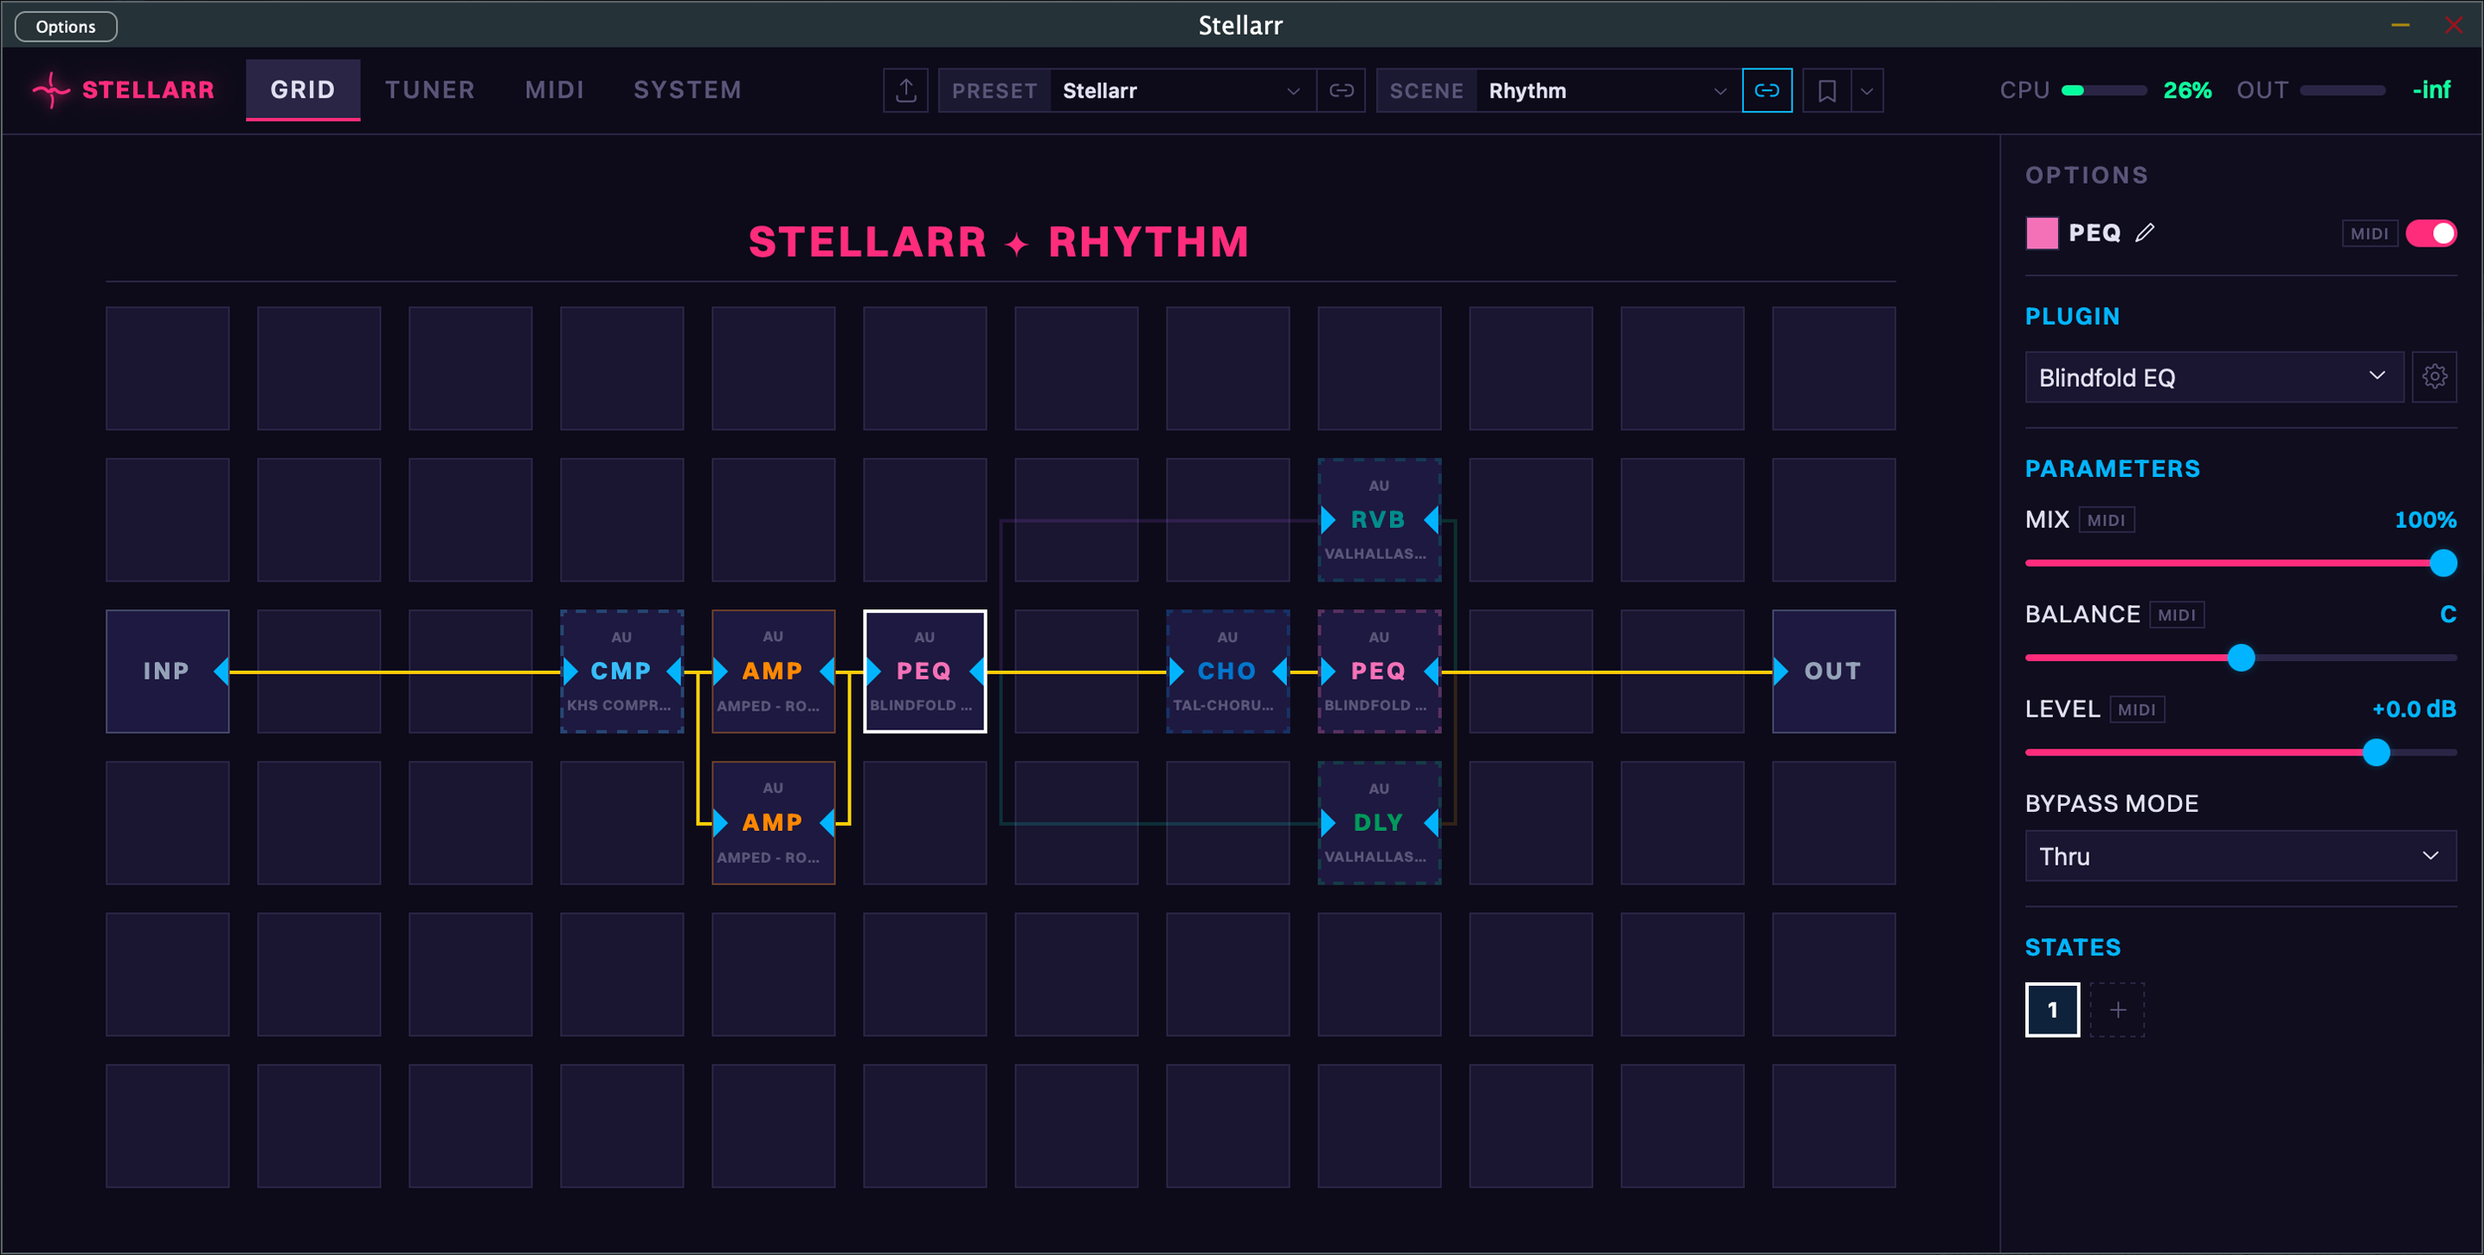
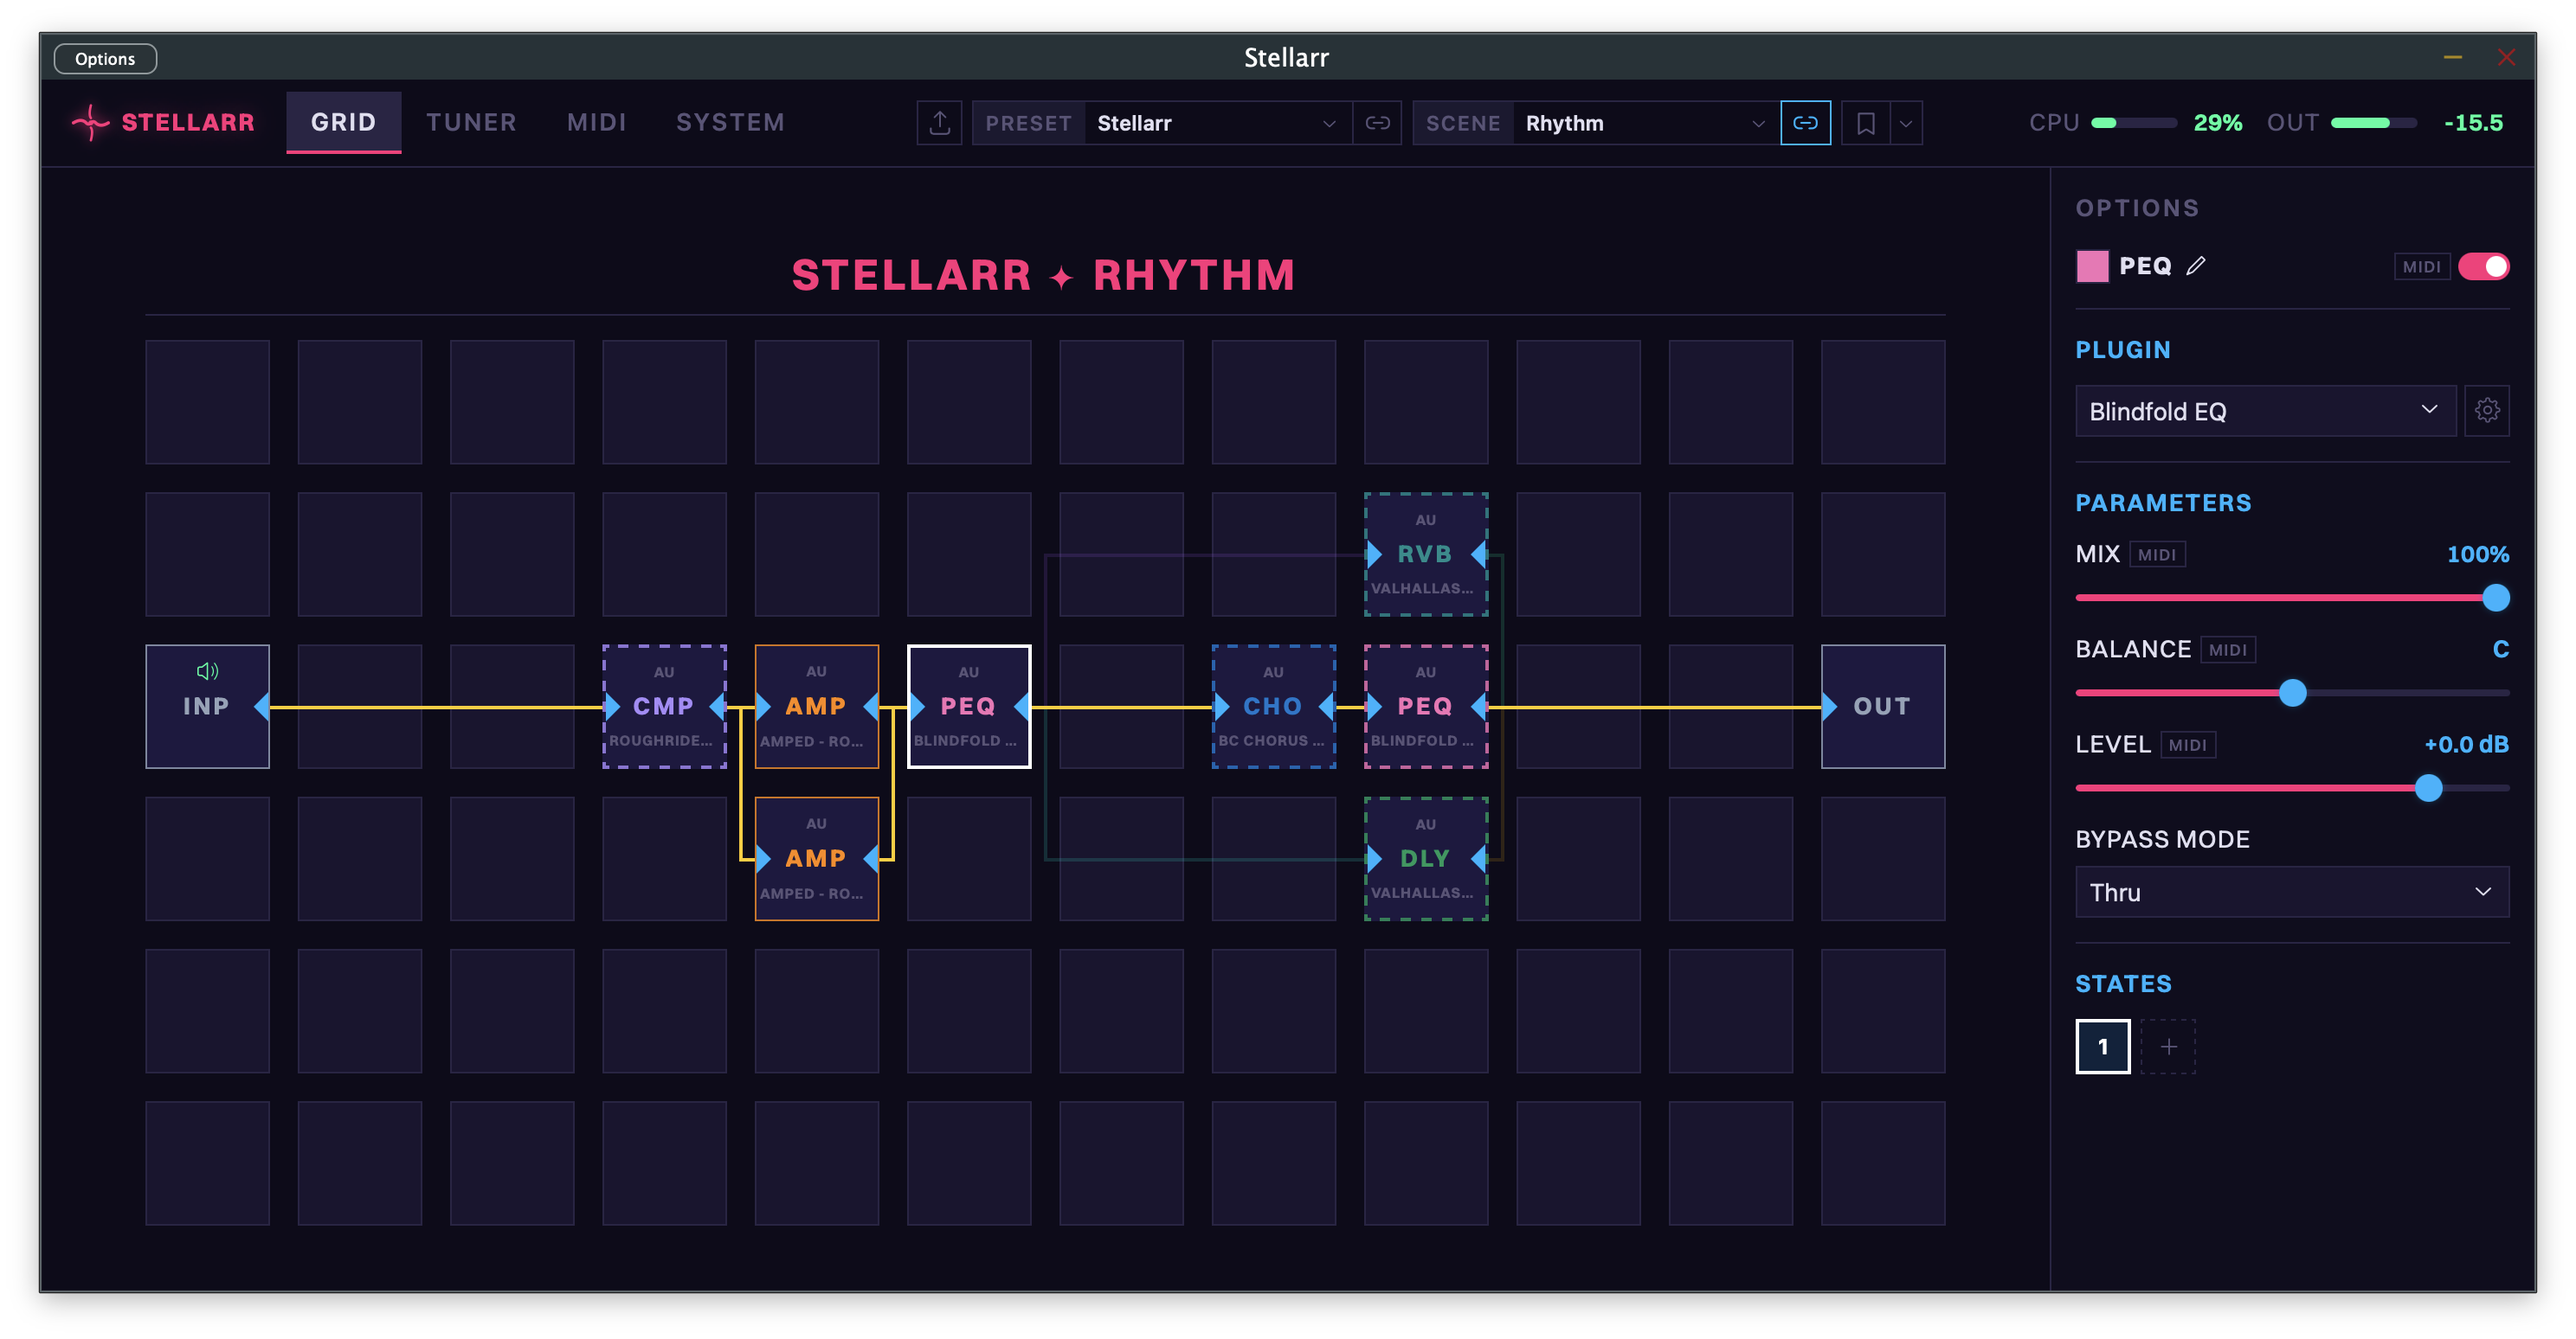
fix: UX polish — focus outline, border opacity, screenshot (#18)
* fix: remove browser focus outline on grid blocks

The default focus ring appeared as a red outline when toggling
block bypass. Blocks already have their own border styling for
selection and bypass states.

* fix: increase block border opacity and update screenshot

Raise normal and bypassed block border opacity from ~30% to 80%
for better visibility. Update screenshot to reflect current UI.

* fix: bump CI Node.js from 22 to 24 to match lock file

Lock file was generated with npm 11 (Node 24). The runner had
npm 10 (Node 22) which rejects the lock file format.

* fix: regenerate lock file for npm 11 compatibility

---------

diff --git a/ui/src/components/grid/GridBlock.tsx b/ui/src/components/grid/GridBlock.tsx
@@ -103,8 +103,8 @@ export function GridBlockComponent({ block }: Props) {
   const borderStyle = isSelected
     ? `2px ${block.bypassed ? 'dashed' : 'solid'} #ffffff`
     : block.bypassed
-      ? `2px dashed ${accentColor}44`
-      : `1px solid ${accentColor}55`;
+      ? `2px dashed ${accentColor}cc`
+      : `1px solid ${accentColor}cc`;
 
   return (
     <div

diff --git a/ui/src/components/grid/GridBlock.module.css b/ui/src/components/grid/GridBlock.module.css
@@ -11,6 +11,7 @@
   z-index: 2;
   padding: 4px 2px;
   background: var(--color-block-bg);
+  outline: none;
 }
 
 .topRegion {
